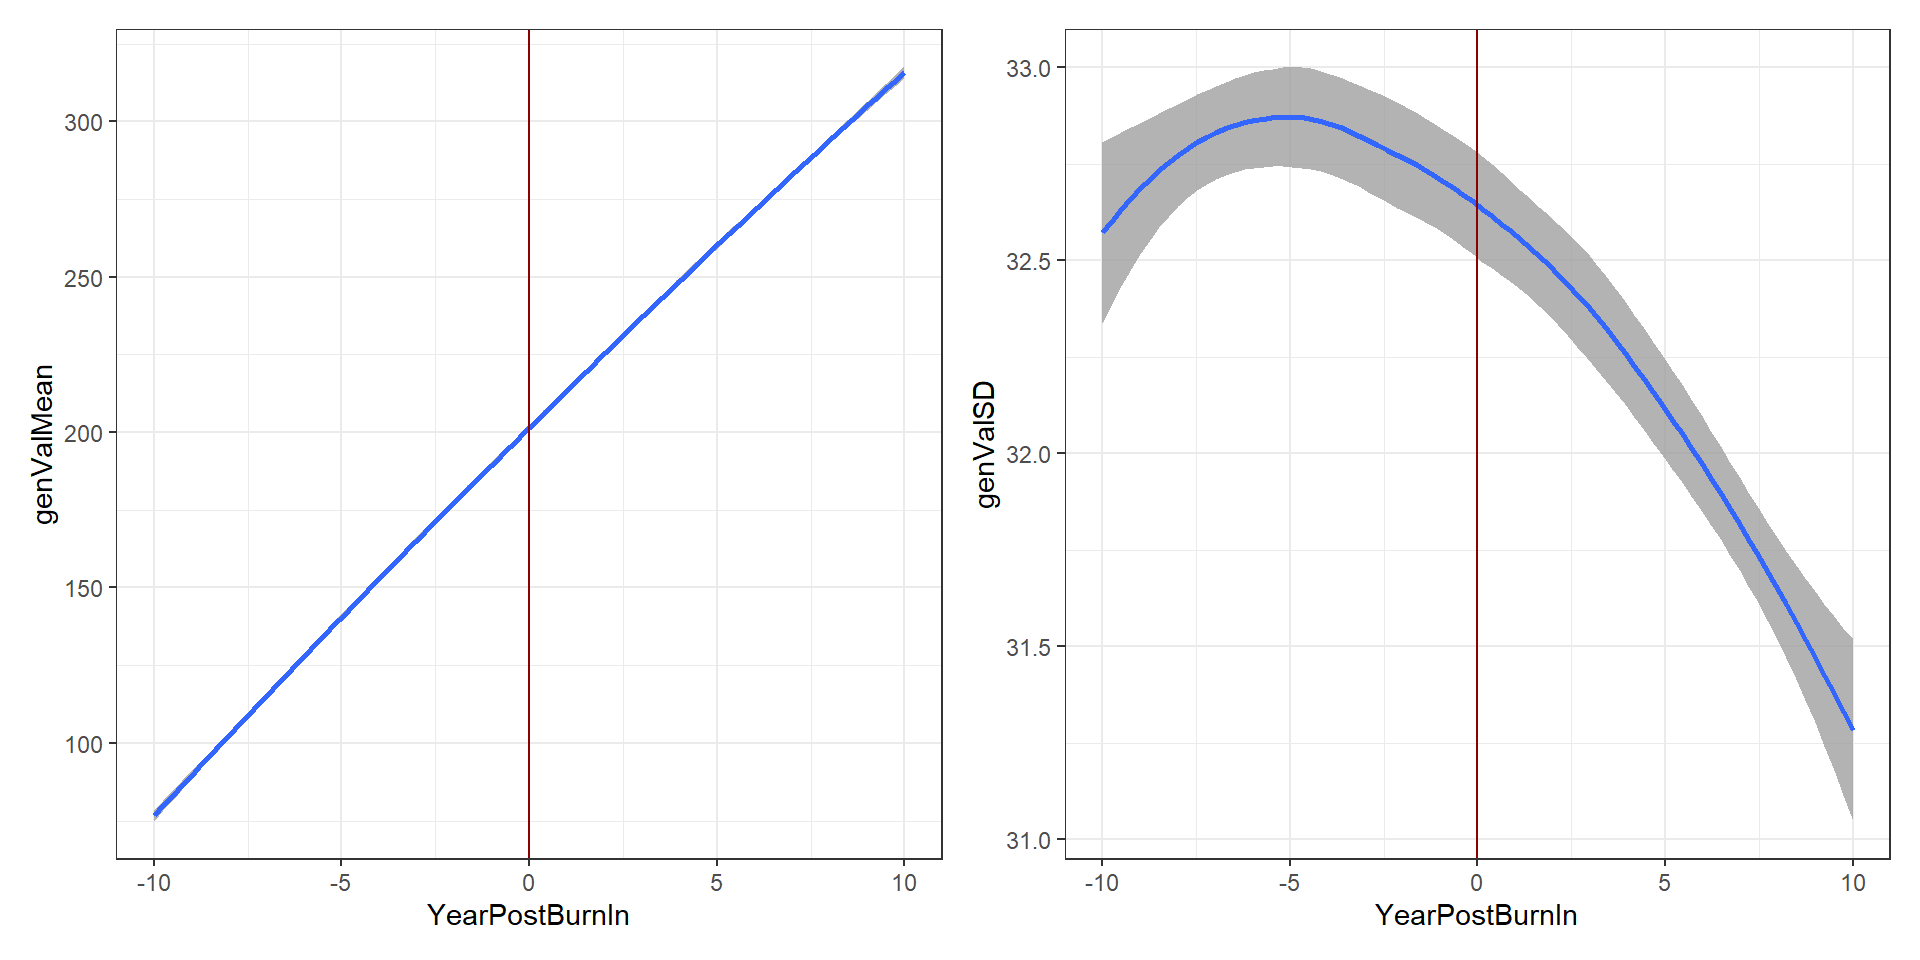
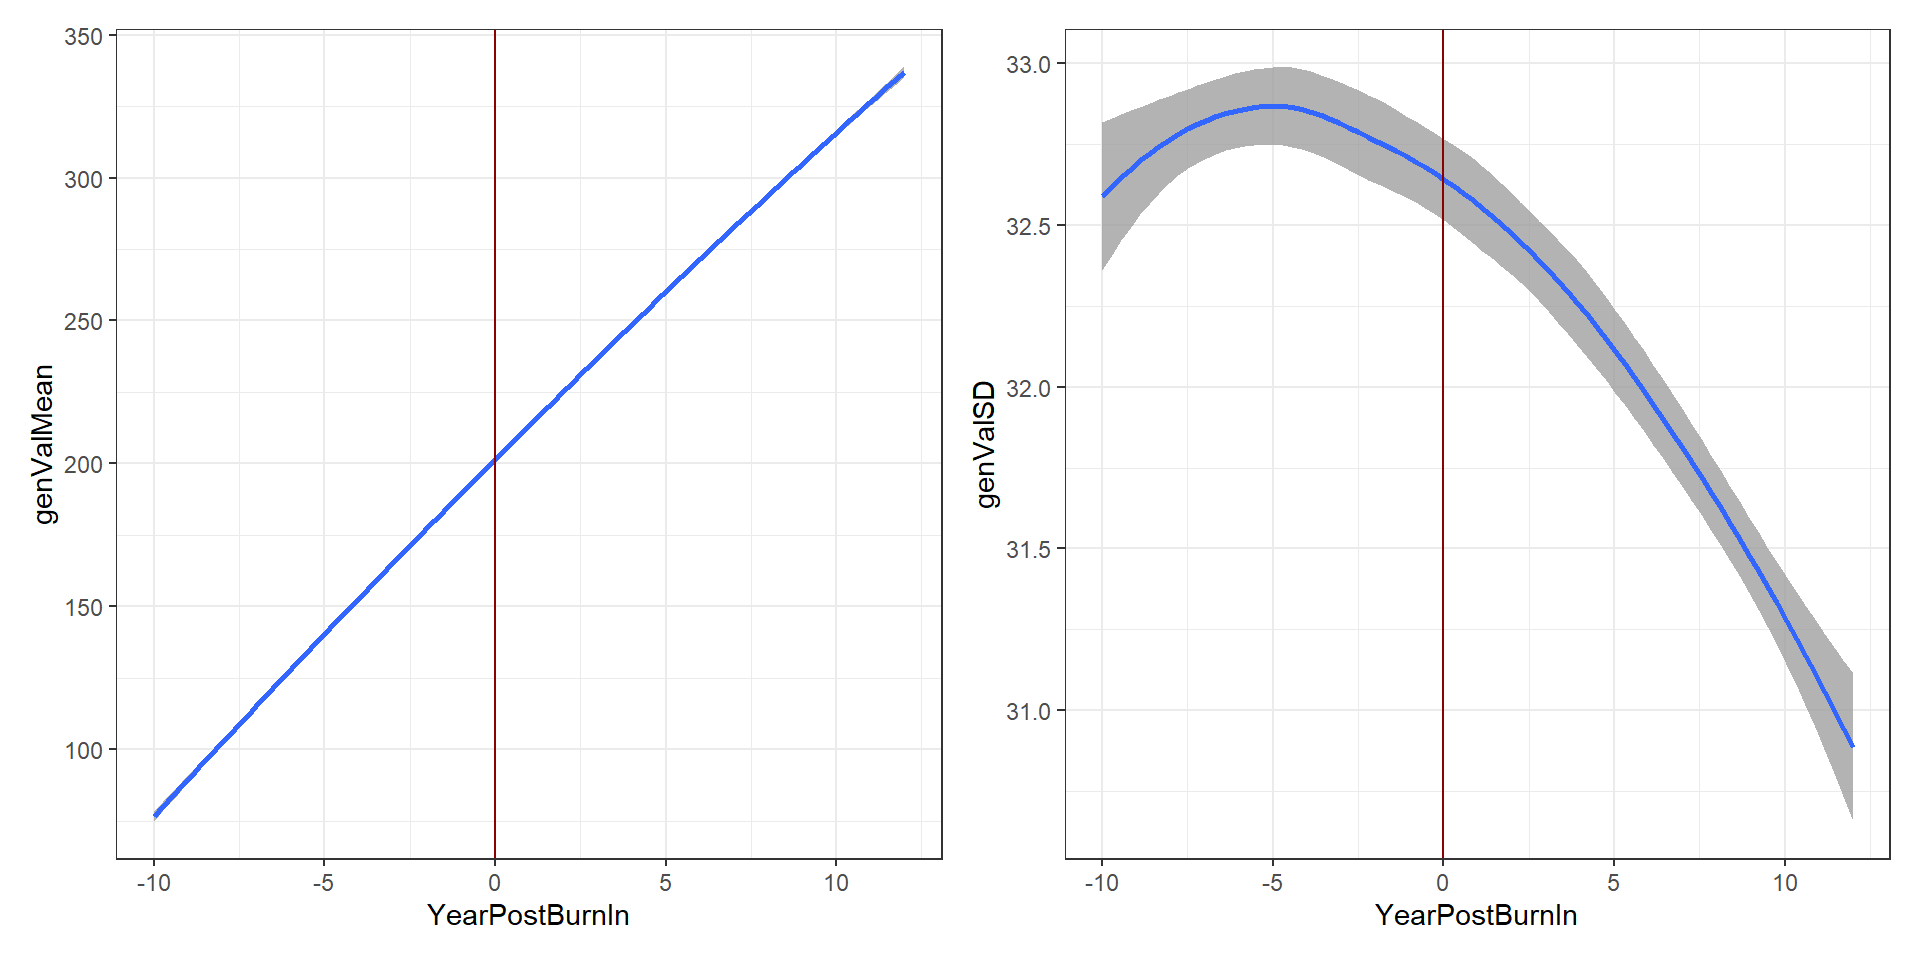
Upload of New VDP suggestions

diff --git a/docs/VD_Optimization.html b/docs/VD_Optimization.html
@@ -15,8 +15,8 @@
 
 <title>Variety Development Process Optimization</title>
 
-<script src="site_libs/header-attrs-2.10/header-attrs.js"></script>
-<script src="site_libs/jquery-1.11.3/jquery.min.js"></script>
+<script src="site_libs/header-attrs-2.11/header-attrs.js"></script>
+<script src="site_libs/jquery-3.6.0/jquery-3.6.0.min.js"></script>
 <meta name="viewport" content="width=device-width, initial-scale=1" />
 <link href="site_libs/bootstrap-3.3.5/css/cosmo.min.css" rel="stylesheet" />
 <script src="site_libs/bootstrap-3.3.5/js/bootstrap.min.js"></script>
@@ -41,7 +41,7 @@
 <script src="site_libs/react-17.0.0/react.min.js"></script>
 <script src="site_libs/react-17.0.0/react-dom.min.js"></script>
 <script src="site_libs/reactwidget-1.0.0/react-tools.js"></script>
-<script src="site_libs/htmlwidgets-1.5.3/htmlwidgets.js"></script>
+<script src="site_libs/htmlwidgets-1.5.4/htmlwidgets.js"></script>
 <script src="site_libs/reactable-binding-0.2.3/reactable.js"></script>
 <link href="site_libs/font-awesome-5.1.0/css/all.css" rel="stylesheet" />
 <link href="site_libs/font-awesome-5.1.0/css/v4-shims.css" rel="stylesheet" />
@@ -391,7 +391,7 @@ div.tocify {
 <div class="tab-content">
 <div id="summary" class="tab-pane fade in active">
 <p>
-<strong>Last updated:</strong> 2021-09-17
+<strong>Last updated:</strong> 2021-10-14
 </p>
 <p>
 <strong>Checks:</strong> <span class="glyphicon glyphicon-ok text-success" aria-hidden="true"></span> 6 <span class="glyphicon glyphicon-exclamation-sign text-danger" aria-hidden="true"></span> 1
@@ -482,16 +482,16 @@ This reproducible <a href="http://rmarkdown.rstudio.com">R Markdown</a> analysis
 <div class="panel panel-default">
 <div class="panel-heading">
 <p class="panel-title">
-<a data-toggle="collapse" data-parent="#workflowr-checks" href="#strongRepositoryversionstrongahrefhttpsgithubcomLucianoRogerioCassavaBreedingSimtree78c2f1defea1a26a98065c03bbe9d70ad0e006a0targetblank78c2f1da"> <span class="glyphicon glyphicon-ok text-success" aria-hidden="true"></span> <strong>Repository version:</strong> <a href="https://github.com/LucianoRogerio/CassavaBreedingSim/tree/78c2f1defea1a26a98065c03bbe9d70ad0e006a0" target="_blank">78c2f1d</a> </a>
+<a data-toggle="collapse" data-parent="#workflowr-checks" href="#strongRepositoryversionstrongahrefhttpsgithubcomLucianoRogerioCassavaBreedingSimtree0a6baada6223ad06ef4abaceed54d3dc06f1ac0btargetblank0a6baada"> <span class="glyphicon glyphicon-ok text-success" aria-hidden="true"></span> <strong>Repository version:</strong> <a href="https://github.com/LucianoRogerio/CassavaBreedingSim/tree/0a6baada6223ad06ef4abaceed54d3dc06f1ac0b" target="_blank">0a6baad</a> </a>
 </p>
 </div>
[2 lines of base64/hex data omitted]
 <div class="panel-body">
 <p>
 Great! You are using Git for version control. Tracking code development and connecting the code version to the results is critical for reproducibility.
 </p>
 <p>
-The results in this page were generated with repository version <a href="https://github.com/LucianoRogerio/CassavaBreedingSim/tree/78c2f1defea1a26a98065c03bbe9d70ad0e006a0" target="_blank">78c2f1d</a>. See the <em>Past versions</em> tab to see a history of the changes made to the R Markdown and HTML files.
+The results in this page were generated with repository version <a href="https://github.com/LucianoRogerio/CassavaBreedingSim/tree/0a6baada6223ad06ef4abaceed54d3dc06f1ac0b" target="_blank">0a6baad</a>. See the <em>Past versions</em> tab to see a history of the changes made to the R Markdown and HTML files.
 </p>
 <p>
 Note that you need to be careful to ensure that all relevant files for the analysis have been committed to Git prior to generating the results (you can use <code>wflow_publish</code> or <code>wflow_git_commit</code>). workflowr only checks the R Markdown file, but you know if there are other scripts or data files that it depends on. Below is the status of the Git repository when the results were generated:
@@ -501,8 +501,17 @@ Ignored files:
     Ignored:    .Rhistory
     Ignored:    .Rproj.user/
 
+Untracked files:
+    Untracked:  data/baselineScheme - IITA - LA3y1.csv
+    Untracked:  data/baselineScheme - IITA - LA4y1.csv
+    Untracked:  data/baselineScheme - IITA - LA4y2.csv
+    Untracked:  data/baselineScheme - IITA - LA4y3.csv
+    Untracked:  data/baselineScheme - IITA - LA4y4.csv
+
 Unstaged changes:
     Modified:   analysis/VD_Optimization.Rmd
+    Modified:   data/baselineScheme - IITA - NVDP1.csv
+    Modified:   data/baselineScheme - IITA.csv
 
 </code></pre>
 <p>
@@ -541,6 +550,40 @@ Message
 </tr>
 </thead>
 <tbody>
+<tr>
+<td>
+Rmd
+</td>
+<td>
+<a href="https://github.com/LucianoRogerio/CassavaBreedingSim/blob/0a6baada6223ad06ef4abaceed54d3dc06f1ac0b/analysis/VD_Optimization.Rmd" target="_blank">0a6baad</a>
+</td>
+<td>
+LucianoRogerio
+</td>
+<td>
+2021-09-17
+</td>
+<td>
+Last Commit of Luciano Simulation Results for Meeting with Jean-Luc and Marnin
+</td>
+</tr>
+<tr>
+<td>
+html
+</td>
+<td>
+<a href="https://rawcdn.githack.com/LucianoRogerio/CassavaBreedingSim/0a6baada6223ad06ef4abaceed54d3dc06f1ac0b/docs/VD_Optimization.html" target="_blank">0a6baad</a>
+</td>
+<td>
+LucianoRogerio
+</td>
+<td>
+2021-09-17
+</td>
+<td>
+Last Commit of Luciano Simulation Results for Meeting with Jean-Luc and Marnin
+</td>
+</tr>
 <tr>
 <td>
 Rmd
@@ -838,7 +881,7 @@ IITAScheme &lt;- read.table(here::here(&quot;data&quot;, &quot;baselineScheme - 
                          sep = &quot;;&quot;, dec = &quot;.&quot;, header = T)
 IITAScheme %&gt;% reactable()</code></pre>
 <div id="htmlwidget-3624b11195a02e6dab7a" class="reactable html-widget" style="width:auto;height:auto;"></div>
-<script type="application/json" data-for="htmlwidget-3624b11195a02e6dab7a">{"x":{"tag":{"name":"Reactable","attribs":{"data":{"stageNames":["CET","PYT","AYT","UYT1","UYT2"],"nEntries":[2500,800,80,30,20],"nLocs":[1,2,3,5,5],"nReps":[1,3,3,3,3],"nChks":[5,4,2,2,2],"entryToChkRatio":[50,25,20,20,20],"trainingPopCycles":[20,20,20,20,20],"errVars":[3500,2500,2000,1800,1800],"PlantsPerPlot":[10,10,25,42,42]},"columns":[{"accessor":"stageNames","name":"stageNames","type":"character"},{"accessor":"nEntries","name":"nEntries","type":"numeric"},{"accessor":"nLocs","name":"nLocs","type":"numeric"},{"accessor":"nReps","name":"nReps","type":"numeric"},{"accessor":"nChks","name":"nChks","type":"numeric"},{"accessor":"entryToChkRatio","name":"entryToChkRatio","type":"numeric"},{"accessor":"trainingPopCycles","name":"trainingPopCycles","type":"numeric"},{"accessor":"errVars","name":"errVars","type":"numeric"},{"accessor":"PlantsPerPlot","name":"PlantsPerPlot","type":"numeric"}],"defaultPageSize":10,"paginationType":"numbers","showPageInfo":true,"minRows":1,"dataKey":"dd9789e9edc67766c686679ffd053f27","key":"dd9789e9edc67766c686679ffd053f27"},"children":[]},"class":"reactR_markup"},"evals":[],"jsHooks":[]}</script>
+<script type="application/json" data-for="htmlwidget-3624b11195a02e6dab7a">{"x":{"tag":{"name":"Reactable","attribs":{"data":{"stageNames":["SDN","CET","PYT","AYT","UYT1","UYT2"],"nEntries":[10000,2500,800,80,30,20],"nLocs":[1,1,2,3,5,5],"nReps":[1,1,3,3,3,3],"nChks":[5,5,4,2,2,2],"entryToChkRatio":[1500,50,25,20,20,20],"trainingPopCycles":[20,20,20,20,20,20],"errVars":[10000,3500,2500,2000,1800,1800],"PlantsPerPlot":[1,10,10,25,42,42]},"columns":[{"accessor":"stageNames","name":"stageNames","type":"character"},{"accessor":"nEntries","name":"nEntries","type":"numeric"},{"accessor":"nLocs","name":"nLocs","type":"numeric"},{"accessor":"nReps","name":"nReps","type":"numeric"},{"accessor":"nChks","name":"nChks","type":"numeric"},{"accessor":"entryToChkRatio","name":"entryToChkRatio","type":"numeric"},{"accessor":"trainingPopCycles","name":"trainingPopCycles","type":"numeric"},{"accessor":"errVars","name":"errVars","type":"numeric"},{"accessor":"PlantsPerPlot","name":"PlantsPerPlot","type":"numeric"}],"defaultPageSize":10,"paginationType":"numbers","showPageInfo":true,"minRows":1,"dataKey":"651b5634f36db4d075ac7e1b16d73e9f","key":"651b5634f36db4d075ac7e1b16d73e9f"},"children":[]},"class":"reactR_markup"},"evals":[],"jsHooks":[]}</script>
 </div>
 <div id="iita-breeding-scheme-1º-alternative-four-years-vdp" class="section level3">
 <h3>IITA breeding Scheme 1º alternative (Four years VDP)</h3>
@@ -847,11 +890,11 @@ IITAScheme &lt;- read.table(here::here(&quot;data&quot;, &quot;baselineScheme - 
                          sep = &quot;;&quot;, dec = &quot;.&quot;, header = T)
 IITAScheme %&gt;% reactable()</code></pre>
 <div id="htmlwidget-5728cd89669a869ad063" class="reactable html-widget" style="width:auto;height:auto;"></div>
-<script type="application/json" data-for="htmlwidget-5728cd89669a869ad063">{"x":{"tag":{"name":"Reactable","attribs":{"data":{"stageNames":["CET","PYT","AYT","UYT1"],"nEntries":[2617,838,84,32],"nLocs":[1,2,3,5],"nReps":[1,3,3,3],"nChks":[5,4,2,2],"entryToChkRatio":[50,25,20,20],"trainingPopCycles":[20,20,20,20],"errVars":[3500,2500,2000,1800],"PlantsPerPlot":[10,10,25,42]},"columns":[{"accessor":"stageNames","name":"stageNames","type":"character"},{"accessor":"nEntries","name":"nEntries","type":"numeric"},{"accessor":"nLocs","name":"nLocs","type":"numeric"},{"accessor":"nReps","name":"nReps","type":"numeric"},{"accessor":"nChks","name":"nChks","type":"numeric"},{"accessor":"entryToChkRatio","name":"entryToChkRatio","type":"numeric"},{"accessor":"trainingPopCycles","name":"trainingPopCycles","type":"numeric"},{"accessor":"errVars","name":"errVars","type":"numeric"},{"accessor":"PlantsPerPlot","name":"PlantsPerPlot","type":"numeric"}],"defaultPageSize":10,"paginationType":"numbers","showPageInfo":true,"minRows":1,"dataKey":"26d9708d931a2f288d9132bd8d99eff9","key":"26d9708d931a2f288d9132bd8d99eff9"},"children":[]},"class":"reactR_markup"},"evals":[],"jsHooks":[]}</script>
+<script type="application/json" data-for="htmlwidget-5728cd89669a869ad063">{"x":{"tag":{"name":"Reactable","attribs":{"data":{"stageNames":["SDN","CET","PYT","AYT","UYT1"],"nEntries":[10208,2604,834,84,32],"nLocs":[1,1,2,3,5],"nReps":[1,1,3,3,3],"nChks":[5,5,4,2,2],"entryToChkRatio":[1500,50,25,20,20],"trainingPopCycles":[20,20,20,20,20],"errVars":[10000,3500,2500,2000,1800],"PlantsPerPlot":[1,10,10,25,42]},"columns":[{"accessor":"stageNames","name":"stageNames","type":"character"},{"accessor":"nEntries","name":"nEntries","type":"numeric"},{"accessor":"nLocs","name":"nLocs","type":"numeric"},{"accessor":"nReps","name":"nReps","type":"numeric"},{"accessor":"nChks","name":"nChks","type":"numeric"},{"accessor":"entryToChkRatio","name":"entryToChkRatio","type":"numeric"},{"accessor":"trainingPopCycles","name":"trainingPopCycles","type":"numeric"},{"accessor":"errVars","name":"errVars","type":"numeric"},{"accessor":"PlantsPerPlot","name":"PlantsPerPlot","type":"numeric"}],"defaultPageSize":10,"paginationType":"numbers","showPageInfo":true,"minRows":1,"dataKey":"7cabb97f79e78960c2d4cd9722da5e5c","key":"7cabb97f79e78960c2d4cd9722da5e5c"},"children":[]},"class":"reactR_markup"},"evals":[],"jsHooks":[]}</script>
 </div>
 <div id="breeding-scheme-simulations-parameters" class="section level3">
 <h3>Breeding Scheme Simulations parameters</h3>
-<p>The burn-in simulation were replicated 20 times, simulating a 30 cycles of operations with the burn-in of the first 20 cycles.</p>
+<p>The burn-in simulation were replicated 20 times, simulating a 26 cycles of operations with the burn-in of the first 20 cycles.</p>
 <p><br /></p>
 <table>
 <thead>
@@ -872,10 +915,10 @@ IITAScheme %&gt;% reactable()</code></pre>
 <td align="center">10</td>
 <td align="center"></td>
 <td align="center"><strong>NChr</strong></td>
-<td align="center">10</td>
+<td align="center">18</td>
 <td align="center"></td>
 <td align="center"><strong>genVar</strong></td>
-<td align="center">750</td>
+<td align="center">1500</td>
 </tr>
 <tr class="even">
 <td align="center">NYrsAsCandidates</td>
@@ -892,10 +935,10 @@ IITAScheme %&gt;% reactable()</code></pre>
 <td align="center">200</td>
 <td align="center"></td>
 <td align="center"><strong>segSites</strong></td>
-<td align="center">1,500</td>
+<td align="center">1,650</td>
 <td align="center"></td>
 <td align="center"><strong>gxyVar</strong></td>
-<td align="center">100</td>
+<td align="center">1500</td>
 </tr>
 <tr class="even">
 <td align="center">stageToGenotype</td>
@@ -905,7 +948,7 @@ IITAScheme %&gt;% reactable()</code></pre>
 <td align="center">1,000</td>
 <td align="center"></td>
 <td align="center">gxlVar</td>
-<td align="center">500</td>
+<td align="center">750</td>
 </tr>
 <tr class="odd">
 <td align="center">nParents</td>
@@ -919,7 +962,7 @@ IITAScheme %&gt;% reactable()</code></pre>
 </tr>
 <tr class="even">
 <td align="center">nCrosses</td>
-<td align="center">250</td>
+<td align="center">340</td>
 <td align="center"></td>
 <td align="center"></td>
 <td align="center"></td>
@@ -929,7 +972,7 @@ IITAScheme %&gt;% reactable()</code></pre>
 </tr>
 <tr class="odd">
 <td align="center">nProgeny</td>
-<td align="center">10</td>
+<td align="center">15</td>
 <td align="center"></td>
 <td align="center"></td>
 <td align="center"></td>
@@ -949,13 +992,13 @@ IITAScheme %&gt;% reactable()</code></pre>
 </tr>
 <tr class="odd">
 <td align="center"><strong>phenoF1toStage1</strong></td>
-<td align="center">TRUE</td>
+<td align="center">FALSE</td>
 <td align="center"></td>
 <td align="center"></td>
 <td align="center"></td>
 <td align="center"></td>
 <td align="center"><strong>errVarPreStage1</strong></td>
-<td align="center">15,000</td>
+<td align="center">17,500</td>
 </tr>
 <tr class="even">
 <td align="center"></td>
@@ -1020,12 +1063,12 @@ schemeDF &lt;- read.csv(here::here(&quot;data&quot;,&quot;baselineScheme - IITA.
 
 bsp1 &lt;- specifyBSP(schemeDF = schemeDF,
                    nTrainPopCycles = 10, nYrsAsCandidates = 2, maxTrainingPopSize = 200,
-                   nChr = 10, effPopSize = 200, quickHaplo = F,
+                   nChr = 18, effPopSize = 200, quickHaplo = F,
                    segSites = 1650, nQTL = 1000, nSNP = 500, genVar = 1500,
                    gxeVar = NULL, gxyVar = 1500, gxlVar = 750, gxyxlVar = 300,
-                   meanDD = 0.23, varDD = 0.06, relAA = 0.5,
+                   meanDD = 0.23, varDD = 0.05, relAA = 0.5,
                    stageToGenotype = &quot;CET&quot;,
-                   nParents = 100, nCrosses = 250, nProgeny = 15, nClonesToNCRP = 3,
+                   nParents = 100, nCrosses = 340, nProgeny = 15, nClonesToNCRP = 3,
                    phenoF1toStage1 = T, errVarPreStage1 = 17500,
                    useCurrentPhenoTrain = F,
                    nCyclesToKeepRecords = 4,
@@ -1102,7 +1145,7 @@ rm(postBurnIn)</code></pre>
 <pre class="r"><code>start &lt;- proc.time()[3]
 postBurnIn_test&lt;-runSchemesPostBurnIn(simulations = burnIn_1,
                                       newBSP=NULL, # so you can change the scheme after burn-in
-                                      nPostBurnInCycles=10,
+                                      nPostBurnInCycles=12,
                                       selCritPop=&quot;parentSelCritGEBV&quot;,
                                       selCritPipe=&quot;selCritIID&quot;,
                                       productFunc=&quot;productPipeline&quot;,
@@ -1137,7 +1180,7 @@ saveRDS(forSimPlot, here::here(&quot;output&quot;, &quot;DataSimPlot1.rds&quot;)
 <pre class="r"><code>forSimPlot &lt;- readRDS(here::here(&quot;output&quot;, &quot;DataSimPlot1.rds&quot;))
 
 library(patchwork)
-meanGplot1 &lt;- forSimPlot %&gt;% filter(YearPostBurnIn &lt;= 10) %&gt;%
+meanGplot1 &lt;- forSimPlot %&gt;% filter(YearPostBurnIn &lt;= 12) %&gt;%
               group_by(PostBurnIn, YearPostBurnIn, year, stage) %&gt;% 
 #              summarize(meanGenMean = mean(genValMean),
 #              seGenMean = sd(genValMean) / n()) %&gt;% 
@@ -1148,7 +1191,7 @@ meanGplot1 &lt;- forSimPlot %&gt;% filter(YearPostBurnIn &lt;= 10) %&gt;%
 #                              fill = PostBurnIn), 
 #                          alpha=0.75) + 
 #              geom_line(aes(y = meanGenMean, color=PostBurnIn))
-sdGplot1 &lt;- forSimPlot %&gt;% filter(YearPostBurnIn &lt;= 10) %&gt;%
+sdGplot1 &lt;- forSimPlot %&gt;% filter(YearPostBurnIn &lt;= 12) %&gt;%
             group_by(PostBurnIn, YearPostBurnIn, year, stage) %&gt;% 
 #            summarize(meanGenSD = mean(genValSD),
 #                      seGenSD = sd(genValSD) / n()) %&gt;% 
@@ -1170,7 +1213,7 @@ sdGplot1 &lt;- forSimPlot %&gt;% filter(YearPostBurnIn &lt;= 10) %&gt;%
 <pre class="r"><code>forSimPlot &lt;- readRDS(here::here(&quot;output&quot;, &quot;DataSimPlot2.rds&quot;))
 
 library(patchwork)
-meanGplot2 &lt;- forSimPlot %&gt;% filter(YearPostBurnIn &lt;= 10) %&gt;%
+meanGplot2 &lt;- forSimPlot %&gt;% filter(YearPostBurnIn &lt;= 12) %&gt;%
               group_by(PostBurnIn, YearPostBurnIn, year, stage) %&gt;% 
 #              summarize(meanGenMean = mean(genValMean),
 #              seGenMean = sd(genValMean) / n()) %&gt;% 
@@ -1181,7 +1224,7 @@ meanGplot2 &lt;- forSimPlot %&gt;% filter(YearPostBurnIn &lt;= 10) %&gt;%
 #                              fill = PostBurnIn), 
 #                          alpha=0.75) + 
 #              geom_line(aes(y = meanGenMean, color=PostBurnIn))
-sdGplot2 &lt;- forSimPlot %&gt;% filter(YearPostBurnIn &lt;= 10) %&gt;%
+sdGplot2 &lt;- forSimPlot %&gt;% filter(YearPostBurnIn &lt;= 12) %&gt;%
             group_by(PostBurnIn, YearPostBurnIn, year, stage) %&gt;% 
 #            summarize(meanGenSD = mean(genValSD),
 #                      seGenSD = sd(genValSD) / n()) %&gt;% 
@@ -1533,29 +1576,29 @@ attached base packages:
 
 other attached packages:
  [1] patchwork_1.1.1 reactable_0.2.3 forcats_0.5.1   stringr_1.4.0  
- [5] dplyr_1.0.7     purrr_0.3.4     readr_2.0.1     tidyr_1.1.3    
- [9] tibble_3.1.4    ggplot2_3.3.5   tidyverse_1.3.1
+ [5] dplyr_1.0.7     purrr_0.3.4     readr_2.0.2     tidyr_1.1.4    
+ [9] tibble_3.1.5    ggplot2_3.3.5   tidyverse_1.3.1
 
 loaded via a namespace (and not attached):
  [1] httr_1.4.2        sass_0.4.0        jsonlite_1.7.2    splines_4.1.1    
- [5] here_1.0.1        modelr_0.1.8      bslib_0.2.5.1     assertthat_0.2.1 
- [9] highr_0.9         cellranger_1.1.0  yaml_2.2.1        pillar_1.6.2     
-[13] backports_1.2.1   lattice_0.20-44   glue_1.4.2        digest_0.6.27    
+ [5] here_1.0.1        modelr_0.1.8      bslib_0.3.1       assertthat_0.2.1 
+ [9] highr_0.9         cellranger_1.1.0  yaml_2.2.1        pillar_1.6.3     
+[13] backports_1.2.1   lattice_0.20-44   glue_1.4.2        digest_0.6.28    
 [17] promises_1.2.0.1  rvest_1.0.1       colorspace_2.0-2  htmltools_0.5.2  
-[21] httpuv_1.6.2      Matrix_1.3-4      reactR_0.4.4      pkgconfig_2.0.3  
+[21] httpuv_1.6.3      Matrix_1.3-4      reactR_0.4.4      pkgconfig_2.0.3  
 [25] broom_0.7.9       haven_2.4.3       scales_1.1.1      whisker_0.4      
 [29] later_1.3.0       tzdb_0.1.2        git2r_0.28.0      mgcv_1.8-36      
 [33] farver_2.1.0      generics_0.1.0    ellipsis_0.3.2    withr_2.4.2      
 [37] cli_3.0.1         magrittr_2.0.1    crayon_1.4.1      readxl_1.3.1     
 [41] evaluate_0.14     fs_1.5.0          fansi_0.5.0       nlme_3.1-152     
-[45] xml2_1.3.2        tools_4.1.1       hms_1.1.0         lifecycle_1.0.0  
+[45] xml2_1.3.2        tools_4.1.1       hms_1.1.1         lifecycle_1.0.1  
 [49] munsell_0.5.0     reprex_2.0.1      compiler_4.1.1    jquerylib_0.1.4  
-[53] rlang_0.4.11      grid_4.1.1        rstudioapi_0.13   htmlwidgets_1.5.3
-[57] crosstalk_1.1.1   labeling_0.4.2    rmarkdown_2.10    gtable_0.3.0     
-[61] DBI_1.1.1         R6_2.5.1          lubridate_1.7.10  knitr_1.33       
+[53] rlang_0.4.11      grid_4.1.1        rstudioapi_0.13   htmlwidgets_1.5.4
+[57] crosstalk_1.1.1   labeling_0.4.2    rmarkdown_2.11    gtable_0.3.0     
+[61] DBI_1.1.1         R6_2.5.1          lubridate_1.8.0   knitr_1.36       
 [65] fastmap_1.1.0     utf8_1.2.2        workflowr_1.6.2   rprojroot_2.0.2  
-[69] stringi_1.7.4     Rcpp_1.0.7        vctrs_0.3.8       dbplyr_2.1.1     
-[73] tidyselect_1.1.1  xfun_0.25        </code></pre>
+[69] stringi_1.7.5     Rcpp_1.0.7        vctrs_0.3.8       dbplyr_2.1.1     
+[73] tidyselect_1.1.1  xfun_0.26        </code></pre>
 </div>
 </div>
 </div>
